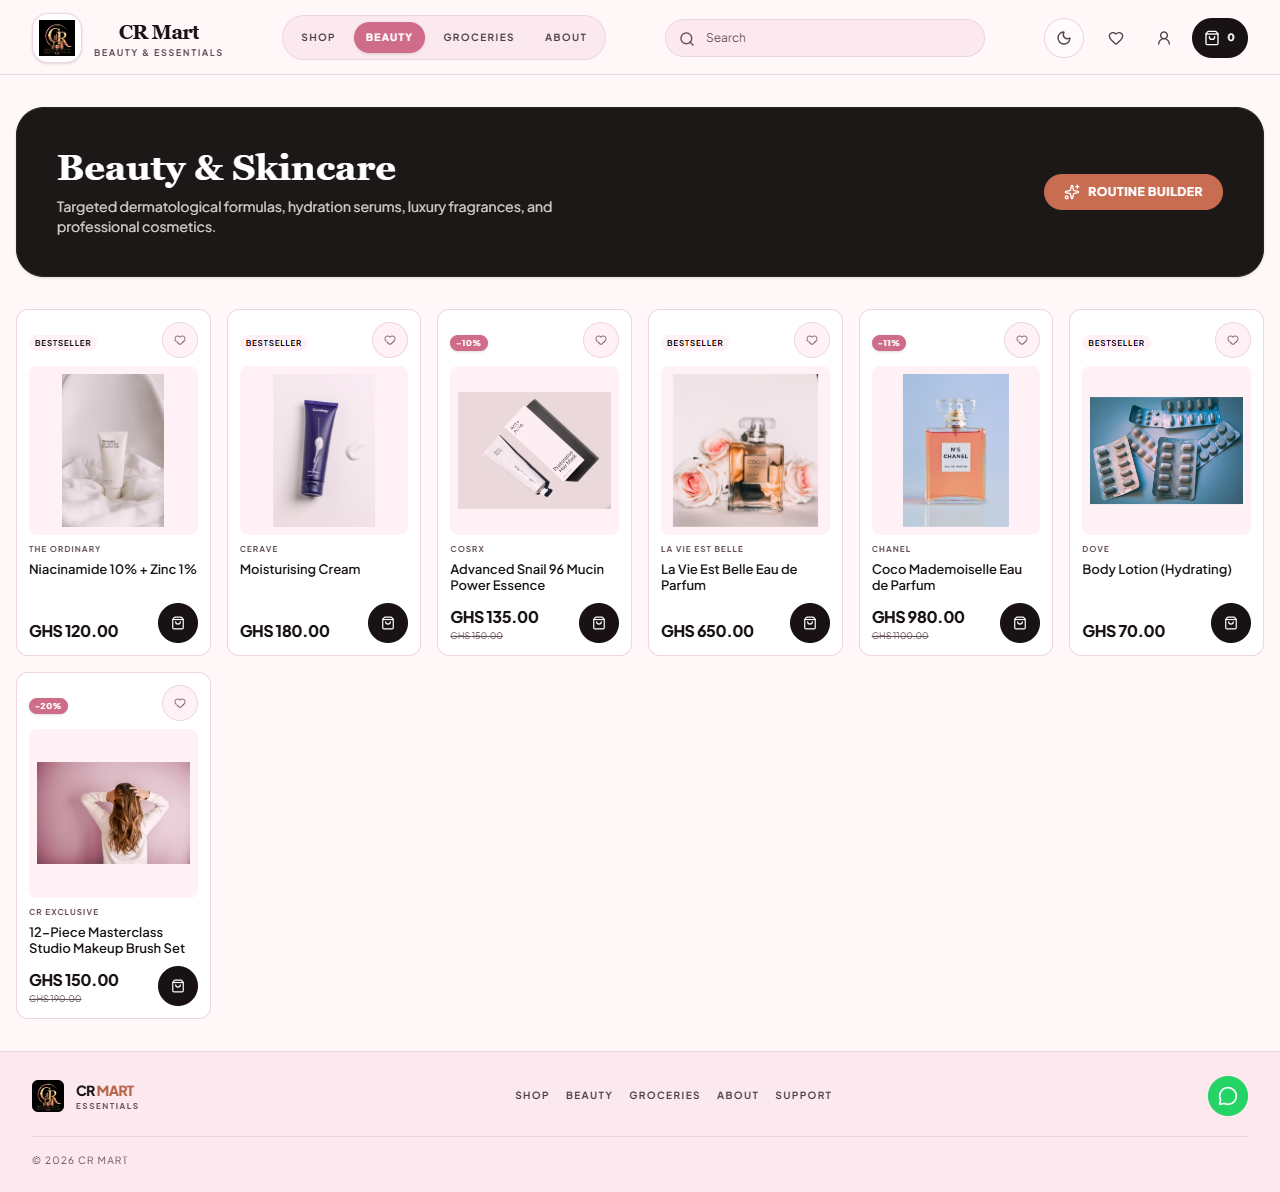
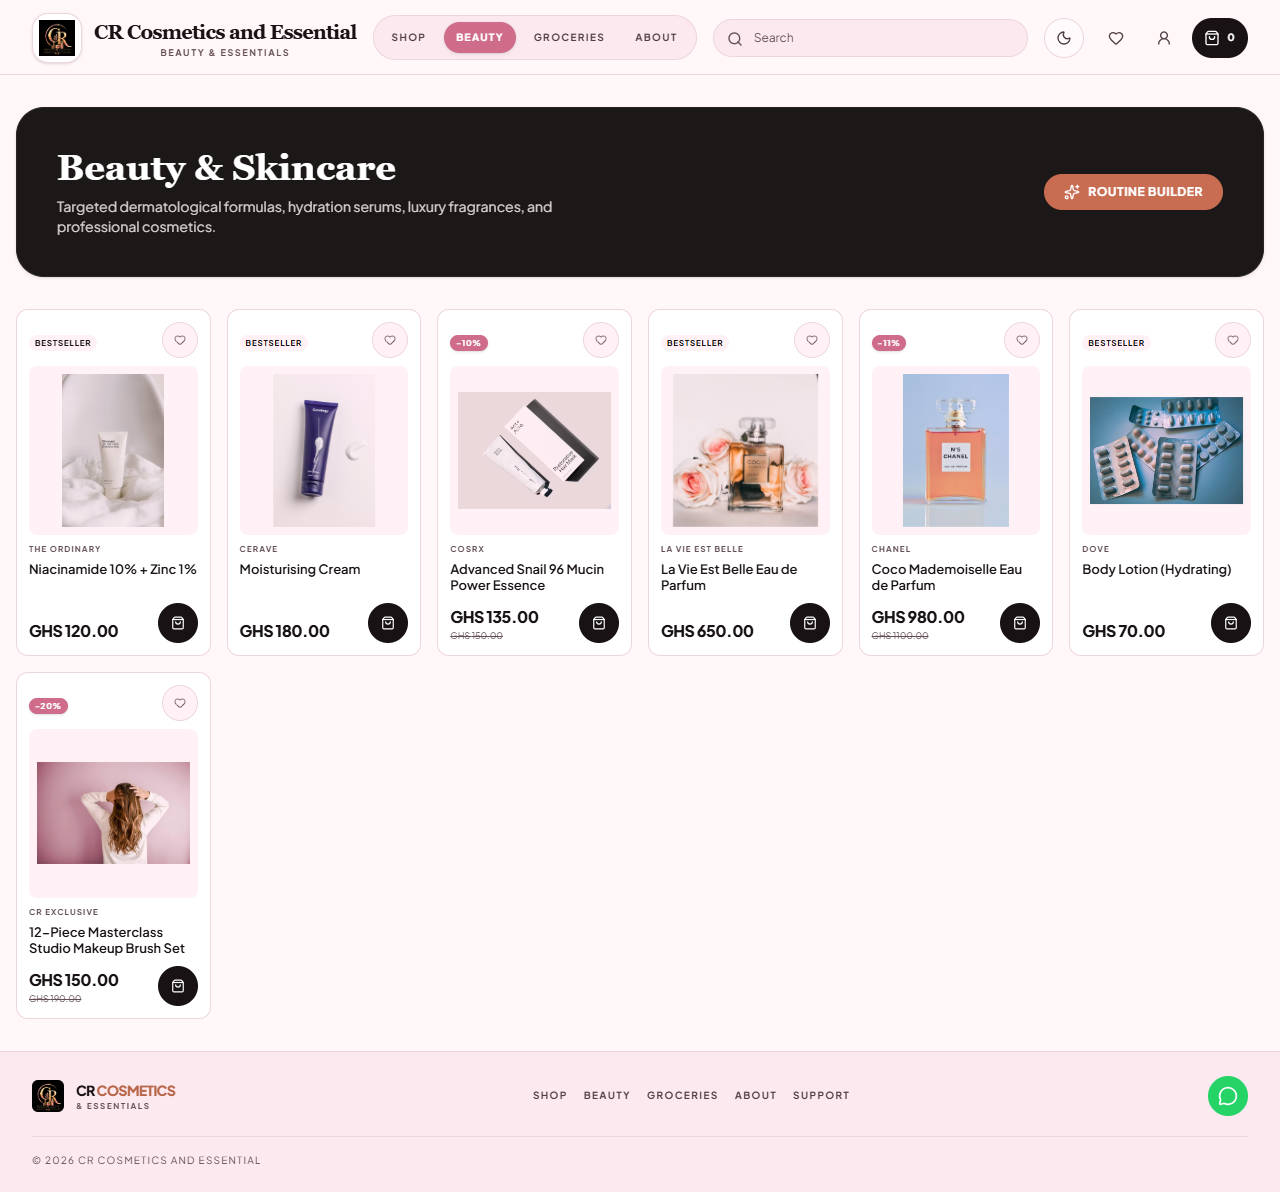
admin

Changed region(s): [[0.0625, 0.0, 0.4062, 0.0621], [0.4062, 0.9002, 0.6562, 0.9312], [0.0625, 0.9002, 0.125, 0.9312]]

diff --git a/src/components/common/SEO.tsx b/src/components/common/SEO.tsx
@@ -16,24 +16,24 @@ interface SEOProps {
   productDescription?: string;
 }
 
-const defaultTitle = 'CR Mart | Beauty · Care · Essentials';
-const defaultDescription = 'CR Mart: Authentic skincare, makeup, designer fragrances, and everyday essentials.';
+const defaultTitle = 'CR Cosmetics and Essential | Beauty · Care · Essentials';
+const defaultDescription = 'CR Cosmetics and Essential: Authentic skincare, makeup, designer fragrances, and everyday essentials.';
 const defaultImage = '/logo.jpeg';
 
 const pageMeta: Record<string, { title: string; description: string }> = {
-  '/': { title: 'CR Mart | Beauty and everyday care', description: 'Shop curated skincare, beauty products, fragrances, and everyday essentials from CR Mart.' },
-  '/shop': { title: 'Shop all products | CR Mart', description: 'Browse beauty, personal care, household, and everyday essentials available from CR Mart.' },
-  '/beauty': { title: 'Beauty collection | CR Mart', description: 'Explore skincare, makeup, fragrances, and beauty tools selected for your everyday routine.' },
-  '/groceries': { title: 'Groceries and essentials | CR Mart', description: 'Shop practical groceries, household care, snacks, beverages, and daily essentials.' },
-  '/about': { title: 'About CR Mart', description: 'Learn about CR Mart and the products we bring together for everyday routines.' },
-  '/support': { title: 'Customer support | CR Mart', description: 'Get help with delivery, payments, returns, product questions, and order updates.' },
-  '/contact': { title: 'Contact us | CR Mart', description: 'Contact the CR Mart team by phone, email, or WhatsApp.' },
-  '/signin': { title: 'Sign in | CR Mart', description: 'Sign in to manage your orders, saved items, and delivery details.' },
-  '/signup': { title: 'Create an account | CR Mart', description: 'Create your CR Mart account for faster checkout and order tracking.' },
-  '/account': { title: 'My account | CR Mart', description: 'Manage your CR Mart profile, orders, saved items, addresses, and preferences.' },
-  '/cart': { title: 'Your cart | CR Mart', description: 'Review your selected products before checkout.' },
-  '/checkout': { title: 'Checkout | CR Mart', description: 'Complete your delivery details and payment securely.' },
-  '/routine-builder': { title: 'Routine builder | CR Mart', description: 'Build a personalized beauty routine from products selected for each step.' },
+  '/': { title: 'CR Cosmetics and Essential | Beauty and everyday care', description: 'Shop curated skincare, beauty products, fragrances, and everyday essentials from CR Cosmetics and Essential.' },
+  '/shop': { title: 'Shop all products | CR Cosmetics and Essential', description: 'Browse beauty, personal care, household, and everyday essentials available from CR Cosmetics and Essential.' },
+  '/beauty': { title: 'Beauty collection | CR Cosmetics and Essential', description: 'Explore skincare, makeup, fragrances, and beauty tools selected for your everyday routine.' },
+  '/groceries': { title: 'Groceries and essentials | CR Cosmetics and Essential', description: 'Shop practical groceries, household care, snacks, beverages, and daily essentials.' },
+  '/about': { title: 'About CR Cosmetics and Essential', description: 'Learn about CR Cosmetics and Essential and the products we bring together for everyday routines.' },
+  '/support': { title: 'Customer support | CR Cosmetics and Essential', description: 'Get help with delivery, payments, returns, product questions, and order updates.' },
+  '/contact': { title: 'Contact us | CR Cosmetics and Essential', description: 'Contact the CR Cosmetics and Essential team by phone, email, or WhatsApp.' },
+  '/signin': { title: 'Sign in | CR Cosmetics and Essential', description: 'Sign in to manage your orders, saved items, and delivery details.' },
+  '/signup': { title: 'Create an account | CR Cosmetics and Essential', description: 'Create your CR Cosmetics and Essential account for faster checkout and order tracking.' },
+  '/account': { title: 'My account | CR Cosmetics and Essential', description: 'Manage your CR Cosmetics and Essential profile, orders, saved items, addresses, and preferences.' },
+  '/cart': { title: 'Your cart | CR Cosmetics and Essential', description: 'Review your selected products before checkout.' },
+  '/checkout': { title: 'Checkout | CR Cosmetics and Essential', description: 'Complete your delivery details and payment securely.' },
+  '/routine-builder': { title: 'Routine builder | CR Cosmetics and Essential', description: 'Build a personalized beauty routine from products selected for each step.' },
 };
 
 export const SEO: React.FC<SEOProps> = ({
@@ -53,9 +53,9 @@ export const SEO: React.FC<SEOProps> = ({
   const { storeSettings } = useStore();
 
   const routeMeta = pageMeta[location.pathname] || (location.pathname.startsWith('/product/')
-    ? { title: 'Product details | CR Mart', description: 'View product details, options, price, availability, and delivery information.' }
+    ? { title: 'Product details | CR Cosmetics and Essential', description: 'View product details, options, price, availability, and delivery information.' }
     : location.pathname.startsWith('/category/')
-      ? { title: 'Category collection | CR Mart', description: 'Browse products in this CR Mart collection.' }
+      ? { title: 'Category collection | CR Cosmetics and Essential', description: 'Browse products in this CR Cosmetics and Essential collection.' }
       : { title: defaultTitle, description: defaultDescription });
   const pageTitle = title || routeMeta.title;
   const pageDescription = description || routeMeta.description;

diff --git a/src/components/account/AccountAndAuth.tsx b/src/components/account/AccountAndAuth.tsx
@@ -106,7 +106,7 @@ const AuthShell: React.FC<{ mode: 'signin' | 'signup'; children: React.ReactNode
             <img
               src={storeSettings.storeLogo || logoImg}
               onError={(e) => { (e.currentTarget as HTMLImageElement).src = logoImg; }}
-              alt="CR Mart"
+              alt="CR Cosmetics and Essential"
               className="h-11 w-11 rounded-xl border border-[var(--border-color)] bg-white p-1 object-contain"
             />
             <span className="text-[10px] font-bold uppercase tracking-[0.18em] text-[var(--text-subtle)]">
@@ -283,7 +283,7 @@ export const SignInPage: React.FC = () => {
               </Button>
               {storePhoneOrWhatsApp && (
                 <a
-                  href={`https://wa.me/${storePhoneOrWhatsApp.replace(/[^0-9]/g, '')}?text=${encodeURIComponent('Hello CR Mart, I need assistance accessing my account.')}`}
+                  href={`https://wa.me/${storePhoneOrWhatsApp.replace(/[^0-9]/g, '')}?text=${encodeURIComponent('Hello CR Cosmetics and Essential, I need assistance accessing my account.')}`}
                   target="_blank"
                   rel="noreferrer"
                   className="inline-flex items-center gap-1.5 rounded-xl bg-[#25D366] px-4 py-2 text-xs font-bold text-white hover:bg-[#1EBE5D] transition"
@@ -359,7 +359,7 @@ export const SignUpPage: React.FC = () => {
         <div className="space-y-2">
           <p className="text-[10px] font-bold uppercase tracking-[0.2em] text-[#C86D51]">Customer account</p>
           <h1 className="text-3xl font-black tracking-tight text-[var(--text-primary)]">Create your account</h1>
-          <p className="text-sm text-[var(--text-muted)]">Join CR Mart for faster checkouts, order tracking, and account management.</p>
+          <p className="text-sm text-[var(--text-muted)]">Join CR Cosmetics and Essential for faster checkouts, order tracking, and account management.</p>
         </div>
 
         <form onSubmit={handleSubmit} className="space-y-4">
@@ -1991,7 +1991,7 @@ export const AccountPage: React.FC = () => {
               <div className="flex items-center gap-3">
                 <img src={logoImg} alt="CR" className="h-10 w-10 rounded-xl object-contain border p-1" />
                 <div>
-                  <h3 className="text-base font-black text-[#1C1817] dark:text-stone-100">CR Mart</h3>
+                  <h3 className="text-base font-black text-[#1C1817] dark:text-stone-100">CR Cosmetics and Essential</h3>
                   <p className="text-[10px] text-stone-500">Customer Order Receipt</p>
                 </div>
               </div>

diff --git a/src/components/admin/AdminLoginView.tsx b/src/components/admin/AdminLoginView.tsx
@@ -96,11 +96,11 @@ export const AdminLoginView: React.FC<AdminLoginProps> = ({ onSuccess }) => {
           {/* Brand Header */}
           <div className="text-center space-y-3">
             <div className="inline-flex items-center justify-center p-1 rounded-2xl bg-white border border-[#E8E2D8] shadow-sm mb-1">
-              <img src={storeSettings.storeLogo || logoImg} onError={(event) => { (event.currentTarget as HTMLImageElement).src = logoImg; }} alt="CR Mart" className="w-16 h-16 rounded-xl object-contain" />
+              <img src={storeSettings.storeLogo || logoImg} onError={(event) => { (event.currentTarget as HTMLImageElement).src = logoImg; }} alt="CR Cosmetics and Essential" className="w-16 h-16 rounded-xl object-contain" />
             </div>
             <div>
               <p className="text-[11px] font-bold uppercase tracking-wider text-[#C89B3C]">
-                CR Mart
+                CR Cosmetics and Essential
               </p>
               <h1 className="text-2xl sm:text-3xl font-serif font-bold text-stone-900 tracking-tight mt-1">
                 Admin login
@@ -193,7 +193,7 @@ export const AdminLoginView: React.FC<AdminLoginProps> = ({ onSuccess }) => {
           {/* Footer Security Note */}
           <div className="pt-4 border-t border-stone-100 text-center">
             <p className="text-[11px] text-stone-400">
-              CR Mart • Accra, Ghana
+              CR Cosmetics and Essential • Accra, Ghana
             </p>
           </div>
 
@@ -202,7 +202,7 @@ export const AdminLoginView: React.FC<AdminLoginProps> = ({ onSuccess }) => {
 
       {/* Page Footer */}
       <footer className="w-full max-w-7xl mx-auto px-6 py-6 text-center text-xs text-stone-500">
-        © {new Date().getFullYear()} CR Mart. All rights reserved.
+        © {new Date().getFullYear()} CR Cosmetics and Essential. All rights reserved.
       </footer>
     </div>
   );

diff --git a/src/components/common/SupportPages.tsx b/src/components/common/SupportPages.tsx
@@ -73,12 +73,12 @@ export const AboutPage: React.FC = () => {
   return (
     <div className="mx-auto max-w-6xl px-4 py-12 sm:px-6 lg:px-8">
       <div className="space-y-6 text-center">
-        <span className="text-xs font-bold uppercase tracking-[0.2em] text-[#C86D51]">CR Mart</span>
+        <span className="text-xs font-bold uppercase tracking-[0.2em] text-[#C86D51]">CR Cosmetics and Essential</span>
         <h1 className="max-w-4xl mx-auto font-serif text-3xl leading-tight tracking-[-0.04em] text-[var(--text-primary)] sm:text-5xl">
           Products for your everyday routine.
         </h1>
         <p className="mx-auto max-w-2xl text-sm leading-7 text-[var(--text-muted)] sm:text-base">
-          CR Mart is an online shop for beauty, personal care, and household essentials. Browse the catalog, choose what suits you, and place your order in a few steps.
+          CR Cosmetics and Essential is an online shop for beauty, personal care, and household essentials. Browse the catalog, choose what suits you, and place your order in a few steps.
         </p>
       </div>
 
@@ -267,7 +267,7 @@ export const ContactPage: React.FC = () => {
   return (
     <div className="mx-auto max-w-6xl px-4 py-12 sm:px-6 lg:px-8">
       <div className="max-w-2xl">
-        <span className="text-xs font-bold uppercase tracking-[0.2em] text-[#C86D51]">Contact CR Mart</span>
+        <span className="text-xs font-bold uppercase tracking-[0.2em] text-[#C86D51]">Contact CR Cosmetics and Essential</span>
         <h1 className="mt-3 max-w-3xl font-serif text-3xl leading-tight tracking-[-0.04em] text-[var(--text-primary)] sm:text-5xl">Let&apos;s help you find what you need.</h1>
         <p className="mt-5 text-sm leading-7 text-[var(--text-muted)] sm:text-base">Reach the team for product questions, order changes, delivery guidance, or anything else about your shopping experience.</p>
       </div>

diff --git a/src/components/common/Footer.tsx b/src/components/common/Footer.tsx
@@ -16,14 +16,14 @@ export const Footer: React.FC = () => {
             <img
               src={storeSettings.storeLogo || logoImg}
               onError={(event) => { (event.currentTarget as HTMLImageElement).src = logoImg; }}
-              alt="CR Mart"
+              alt="CR Cosmetics and Essential"
               className="h-8 w-auto rounded-md object-contain"
             />
             <div>
               <div className="text-sm font-black uppercase tracking-[-0.05em] text-[var(--text-primary)]">
-                CR <span className="text-[#b86649]">Mart</span>
+                CR <span className="text-[#b86649]">Cosmetics</span>
               </div>
-              <div className="text-[8px] font-bold uppercase tracking-[0.2em] text-[var(--text-subtle)]">Essentials</div>
+              <div className="text-[8px] font-bold uppercase tracking-[0.2em] text-[var(--text-subtle)]">&amp; Essentials</div>
             </div>
           </div>
 
@@ -39,7 +39,7 @@ export const Footer: React.FC = () => {
             href={getWhatsAppUrl(storeSettings.whatsappNumber)}
             target="_blank"
             rel="noopener noreferrer"
-              aria-label="Chat with CR Mart on WhatsApp"
+              aria-label="Chat with CR Cosmetics and Essential on WhatsApp"
             title="Chat with us on WhatsApp"
             className="inline-flex h-10 w-10 items-center justify-center rounded-full bg-[#25D366] text-white transition-colors hover:bg-[#20bd5a]"
           >
@@ -48,7 +48,7 @@ export const Footer: React.FC = () => {
         </div>
 
         <div className="mt-5 border-t border-[var(--border-color)] pt-4 text-[10px] uppercase tracking-[0.12em] text-[var(--text-subtle)]">
-          © {new Date().getFullYear()} CR Mart
+          © {new Date().getFullYear()} CR Cosmetics and Essential
         </div>
       </div>
     </footer>

diff --git a/src/components/common/Header.tsx b/src/components/common/Header.tsx
@@ -87,7 +87,7 @@ export const Header: React.FC<HeaderProps> = ({ onOpenCart, onOpenWishlist }) =>
             <div className="shrink-0 rounded-2xl border border-[var(--border-color)] bg-[var(--bg-card)] p-1.5 shadow-sm">
               <img 
                 src={storeSettings.storeLogo || logoImg} 
-                alt="CR Mart"
+                alt="CR Cosmetics and Essential"
                 className="h-8 w-8 object-contain sm:h-9 sm:w-auto" 
                 onError={(e) => { (e.target as HTMLImageElement).src = logoImg; }}
               />
@@ -184,7 +184,7 @@ export const Header: React.FC<HeaderProps> = ({ onOpenCart, onOpenWishlist }) =>
               <Link to="/" onClick={() => setIsMobileMenuOpen(false)} className="flex items-center gap-2">
                 <img 
                   src={storeSettings.storeLogo || logoImg} 
-                  alt="CR Mart"
+                  alt="CR Cosmetics and Essential"
                   className="h-8 w-8 rounded-lg object-contain" 
                   onError={(e) => { (e.target as HTMLImageElement).src = logoImg; }}
                 />
@@ -226,7 +226,7 @@ export const Header: React.FC<HeaderProps> = ({ onOpenCart, onOpenWishlist }) =>
               href={getWhatsAppUrl(storeSettings.whatsappNumber)}
               target="_blank"
               rel="noopener noreferrer"
-              aria-label="Chat with CR Mart on WhatsApp"
+              aria-label="Chat with CR Cosmetics and Essential on WhatsApp"
               title="Chat with us on WhatsApp"
               className="mt-5 flex h-12 w-12 items-center justify-center self-start rounded-full bg-[#25D366] text-white shadow-xs"
             >

diff --git a/src/components/checkout/CartAndCheckout.tsx b/src/components/checkout/CartAndCheckout.tsx
@@ -411,7 +411,7 @@ export const MultiStepCheckoutPage: React.FC = () => {
     <div className="mx-auto max-w-6xl px-3 py-6 font-sans sm:px-6 sm:py-10">
       <div className="mb-8 flex flex-col gap-5 border-b border-[var(--border-color)] pb-7 sm:flex-row sm:items-end sm:justify-between">
         <div>
-          <p className="mb-2 text-[10px] font-bold uppercase tracking-[0.24em] text-[var(--accent-strong)]">CR Mart checkout</p>
+          <p className="mb-2 text-[10px] font-bold uppercase tracking-[0.24em] text-[var(--accent-strong)]">CR Cosmetics and Essential checkout</p>
           <h1 className="font-serif text-4xl leading-none tracking-[-0.04em] text-[var(--text-primary)] sm:text-5xl">Almost yours.</h1>
           <p className="mt-3 max-w-md text-sm leading-6 text-[var(--text-muted)]">Add your delivery details, then complete payment securely with Paystack.</p>
         </div>
@@ -635,7 +635,7 @@ export const OrderConfirmationPage: React.FC = () => {
         </div>
       ) : (
         <p className="text-xs text-[var(--text-muted)] text-center">
-          Thank you for shopping with CR Mart.
+          Thank you for shopping with CR Cosmetics and Essential.
         </p>
       )}
 

diff --git a/index.html b/index.html
@@ -3,10 +3,10 @@
   <head>
     <meta charset="UTF-8" />
     <meta name="viewport" content="width=device-width, initial-scale=1.0" />
-    <title>CR Mart | Beauty · Care · Essentials</title>
-    <meta name="description" content="CR Mart: Authentic skincare, makeup, designer fragrances, and everyday essentials in Accra, Ghana." />
+    <title>CR Cosmetics and Essential | Beauty · Care · Essentials</title>
+    <meta name="description" content="CR Cosmetics and Essential: Authentic skincare, makeup, designer fragrances, and everyday essentials in Accra, Ghana." />
     <meta name="keywords" content="cosmetics Ghana, beauty products Accra, skincare Ghana, makeup Ghana, groceries Accra, personal care products" />
-    <meta property="og:title" content="CR Mart | Beauty and everyday care" />
+    <meta property="og:title" content="CR Cosmetics and Essential | Beauty and everyday care" />
     <meta property="og:description" content="Shop skincare, makeup, fragrances, groceries, and everyday essentials in Accra, Ghana." />
     <meta property="og:type" content="website" />
     <meta property="og:url" content="https://cosmeticse.vercel.app/" />

diff --git a/src/components/admin/components/OrderDetailDrawer.tsx b/src/components/admin/components/OrderDetailDrawer.tsx
@@ -51,7 +51,7 @@ export const OrderDetailDrawer: React.FC<OrderDetailDrawerProps> = ({
   if (!isOpen || !order) return null;
 
   const customerPhoneClean = order.shippingAddress.phone.replace(/[^0-9]/g, '');
-  const whatsappUrl = `https://wa.me/${customerPhoneClean.startsWith('0') ? '233' + customerPhoneClean.slice(1) : customerPhoneClean}?text=${encodeURIComponent(`Hello ${order.shippingAddress.fullName}, thank you for shopping with CR Mart. We are currently preparing your delivery for order #${order.orderNumber}.`)}`;
+  const whatsappUrl = `https://wa.me/${customerPhoneClean.startsWith('0') ? '233' + customerPhoneClean.slice(1) : customerPhoneClean}?text=${encodeURIComponent(`Hello ${order.shippingAddress.fullName}, thank you for shopping with CR Cosmetics and Essential. We are currently preparing your delivery for order #${order.orderNumber}.`)}`;
 
   const stages: { label: OrderStatus; desc: string }[] = [
     { label: 'Confirmed', desc: 'Order received & confirmed' },

diff --git a/src/components/home/DepartmentStorefronts.tsx b/src/components/home/DepartmentStorefronts.tsx
@@ -137,7 +137,7 @@ export const HomePage: React.FC = () => {
           <section className={`rounded-2xl border border-[var(--border-color)] bg-[linear-gradient(135deg,var(--bg-card),var(--bg-card-alt))] p-5 shadow-[var(--shadow-soft)] sm:p-8 ${storeSettings.heroImage ? 'grid gap-5 md:grid-cols-[1fr_minmax(260px,38%)] md:items-center' : ''}`}>
             <div className="order-2 flex items-center justify-between gap-4 md:order-1">
               <div className="min-w-0 flex-1">
-                <p className="text-[10px] font-bold uppercase tracking-[0.2em] text-[var(--accent-strong)]">CR Mart</p>
+                <p className="text-[10px] font-bold uppercase tracking-[0.2em] text-[var(--accent-strong)]">CR Cosmetics and Essential</p>
                 <h1 className="mt-2 max-w-[17ch] text-[1.9rem] font-black leading-[1.05] text-[var(--text-primary)] sm:text-4xl">
                   {storeSettings.heroHeadline || 'Beauty, care, and everyday essentials.'}
                 </h1>

diff --git a/scripts/seed.ts b/scripts/seed.ts
@@ -12,7 +12,7 @@ import { PRODUCTS, CATEGORIES_CONFIG, BRANDS_LIST } from '../src/data/products';
 import bcrypt from 'bcryptjs';
 
 const DEFAULT_STORE_SETTINGS = {
-  storeName: 'CR Mart',
+  storeName: 'CR Cosmetics and Essential',
   storeTagline: 'Your Beauty. Your Essentials. Your Glow.',
   heroHeadline: 'Your Beauty. Your Essentials. Your Glow.',
   heroSubtitle: 'Shop beauty, personal care and household essentials.',
@@ -28,7 +28,7 @@ const DEFAULT_STORE_SETTINGS = {
   intercityShippingFee: 70,
   storePhone: '+233 59 215 3306',
   storeEmail: 'contact@crcosmetics.com',
-  storeAddress: 'CR Mart • Accra, Ghana (Google Maps: https://maps.app.goo.gl/iZj5aqj13gCaYZ1m9)',
+  storeAddress: 'CR Cosmetics and Essential • Accra, Ghana (Google Maps: https://maps.app.goo.gl/iZj5aqj13gCaYZ1m9)',
   storeHours: 'Mon - Sat: 8:00 AM - 8:00 PM | Sun: 12:00 PM - 6:00 PM',
   whatsappNumber: '233592153306',
   maintenanceMode: false,

diff --git a/src/context/StoreContext.tsx b/src/context/StoreContext.tsx
@@ -95,7 +95,7 @@ interface StoreContextType {
 }
 
 const DEFAULT_STORE_SETTINGS: StoreSettings = {
-  storeName: 'CR Mart',
+  storeName: 'CR Cosmetics and Essential',
   storeTagline: 'Your Beauty. Your Essentials. Your Glow.',
   heroHeadline: '',
   heroSubtitle: '',
@@ -155,9 +155,9 @@ const DEFAULT_STORE_SETTINGS: StoreSettings = {
 
 const normalizeStoreSettings = (settings: Partial<StoreSettings>): Partial<StoreSettings> => ({
   ...settings,
-  storeName: settings.storeName === 'CR Cosmetics & Essentials' || settings.storeName === 'CR Cosmetics & Essential'
-    ? 'CR Mart'
-    : settings.storeName,
+  storeName: settings.storeName === 'CR Mart' || settings.storeName === 'CR Cosmetics & Essentials'
+    ? 'CR Cosmetics and Essential'
+    : (settings.storeName || 'CR Cosmetics and Essential'),
 });
 
 const INITIAL_ADMIN_ACCOUNTS: AdminAccount[] = [
